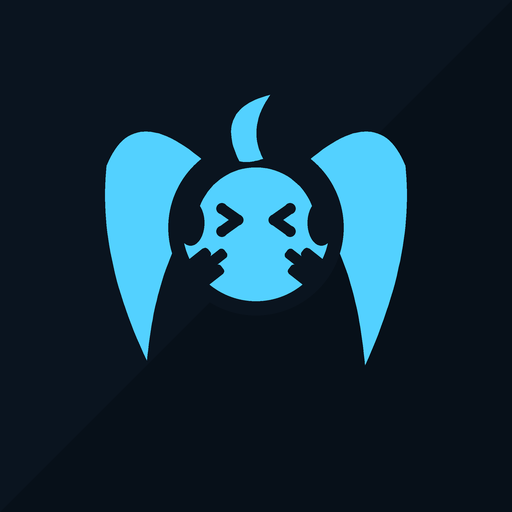
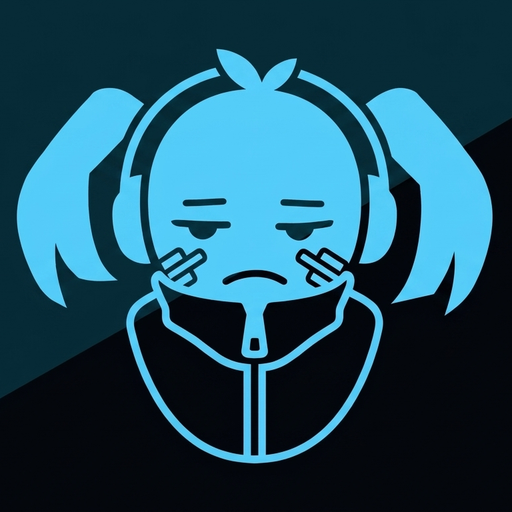
feat: 아이콘을 직접 제작한 캐릭터 아트로 교체 (versionCode 19)
- 원본(play/source-icon.png)에서 전 산출물 생성: 스토어 512 크롭, 피처 합성,
  런처 어댑티브 전경(캐릭터 추출 PNG, 안전영역 맞춤) + 배경 벡터(원본 투톤)
- 벡터 전경은 비트맵 전경으로 대체

diff --git a/play/make-graphics.py b/play/make-graphics.py
@@ -1,115 +1,85 @@
 #!/usr/bin/env python3
-"""플레이스토어 그래픽 재생성 — 에네 콘셉트 단색 캐릭터 마크.
+"""플레이스토어·런처 그래픽 생성 — 사용자 제작 캐릭터 아트(source-icon.png) 기반.
 
-런처 벡터(app/src/main/res/drawable/ic_launcher_foreground.xml)와 같은 지오메트리를
-여기서도 그린다(108 뷰포트 좌표 공유). 모티프를 바꾸면 두 곳을 같이 바꿀 것.
-산출물: icon-512.png (512×512), feature-1024x500.png (1024×500, 알파 없음)
+원본: play/source-icon.png (1367x768, 시안 캐릭터 + 투톤 대각 배경).
+산출물:
+  - icon-512.png            스토어 아이콘 (캐릭터 중심 정방형 크롭)
+  - feature-1024x500.png    피처 그래픽 (배경 재구성 + 캐릭터 우측 + 타이틀)
+  - ../app/src/main/res/drawable-xxxhdpi/ic_launcher_foreground.png
+                            어댑티브 런처 전경 (캐릭터 추출, 432px, 안전영역 맞춤)
+런처 배경(ic_launcher_background.xml)은 원본 배경색 2톤 대각 벡터로 별도 유지.
 """
-import math
+import os
 from PIL import Image, ImageDraw, ImageFont
 
-NAVY = '#0A141F'
-NAVY2 = '#071019'
-CYAN = '#53D1FF'
-
-HEAD = (54, 48, 15.5)
-HALO_R = 18.5
-AHOGE = [('M', (50.5, 34)), ('Q', (45, 23), (57, 20)), ('Q', (52, 27), (55.5, 33.5)), ('Q', (52.5, 34.5), (50.5, 34))]
-LTAIL = [('M', (43, 34)), ('Q', (28, 21), (22.5, 35)), ('Q', (20.5, 54), (31, 76)), ('Q', (32.5, 60), (38, 50)), ('Q', (42.5, 44), (43, 38))]
-RTAIL = [('M', (65, 34)), ('Q', (80, 21), (85.5, 35)), ('Q', (87.5, 54), (77, 77)), ('Q', (75.5, 60), (70, 50)), ('Q', (65.5, 44), (65, 38))]
-EYE_R = 1.15
-EYE_SEGS = [((46.8, 44.0), (50.2, 46.4)), ((46.8, 48.8), (50.2, 46.4)),
-            ((61.2, 44.0), (57.8, 46.4)), ((61.2, 48.8), (57.8, 46.4))]
-TH = math.radians(-55)
-BAND_RMID = 14.2; BAND_HALF = 1.5; BAND_A0 = 195; BAND_A1 = 345
-CUPS = [(40.2, 47.0), (67.8, 47.0)]; CUP_RX = 2.9; CUP_RY = 4.8
+CYAN = (82, 203, 248)      # 캐릭터 본색
+BG1 = '#072B37'            # 배경 좌상(틸)
+BG2 = '#03060B'            # 배경 우하(흑청)
 
 
-def _rrect_outline(halfL, halfW, q, n=8):
-    pts = []
-    def arc(ccx, ccy, a0, a1):
-        for i in range(n + 1):
-            a = math.radians(a0 + (a1 - a0) * i / n)
-            pts.append((ccx + q * math.cos(a), ccy + q * math.sin(a)))
-    arc(halfL - q, halfW - q, 0, 90); arc(-halfL + q, halfW - q, 90, 180)
-    arc(-halfL + q, -halfW + q, 180, 270); arc(halfL - q, -halfW + q, 270, 360)
-    return pts
+def load_source():
+    return Image.open('source-icon.png').convert('RGB')
 
 
-def _rot_rrect(cx, cy, th, halfL, halfW, q):
-    co, si = math.cos(th), math.sin(th)
-    return [(cx + x * co - y * si, cy + x * si + y * co) for x, y in _rrect_outline(halfL, halfW, q)]
+def extract_character(im):
+    """시안 캐릭터만 알파로 추출. 내부 디테일(배경색 선)은 뚫려서 배경이 비친다 — 의도된 것."""
+    w, h = im.size
+    src = im.load()
+    out = Image.new('RGBA', (w, h), (0, 0, 0, 0))
+    dst = out.load()
+    lo, hi = 45, 95
+    for y in range(h):
+        for x in range(w):
+            r, g, b = src[x, y]
+            d = ((r - CYAN[0]) ** 2 + (g - CYAN[1]) ** 2 + (b - CYAN[2]) ** 2) ** 0.5
+            if d < lo:
+                a = 255
+            elif d > hi:
+                continue
+            else:
+                a = int(255 * (hi - d) / (hi - lo))
+            dst[x, y] = (r, g, b, a)
+    bbox = out.getbbox()
+    return out.crop(bbox)
 
 
-def _edge_cluster(anchor_deg):
-    hx, hy = HEAD[0], HEAD[1]
-    a = math.radians(anchor_deg)
-    u = (math.cos(a), math.sin(a)); nv = (-u[1], u[0]); th = math.atan2(u[1], u[0])
-    bars = []
-    for off, Rb, halfL in ((-2.25, 14.2, 3.4), (0, 13.0, 4.8), (2.25, 14.2, 3.4)):
-        c = (hx + Rb * u[0] + off * nv[0], hy + Rb * u[1] + off * nv[1])
-        bars.append(_rot_rrect(c[0], c[1], th, halfL, 1.15, 0.8))
-    return bars
+def char_center_bbox(im):
+    ch = extract_character(im)
+    return ch
 
 
-DEV_BARS = _edge_cluster(38) + _edge_cluster(142)
+def make_icon(im):
+    """캐릭터 중심 정방형 크롭 → 512. 원본 배경(대각 투톤) 그대로 유지."""
+    w, h = im.size
+    ch = extract_character(im)
+    # 캐릭터 가로 중심 찾기: 추출 전 bbox를 다시 계산하기 위해 알파 투영
+    full = Image.new('RGBA', (w, h), (0, 0, 0, 0))
+    # extract_character가 crop해버리므로 중심은 원본에서 다시 측정
+    # (간단히: 시안 픽셀 x 평균)
+    src = im.load()
+    sx = n = 0
+    for y in range(0, h, 4):
+        for x in range(0, w, 4):
+            r, g, b = src[x, y]
+            if abs(r - CYAN[0]) < 60 and abs(g - CYAN[1]) < 60 and abs(b - CYAN[2]) < 60:
+                sx += x; n += 1
+    cx = sx // max(n, 1)
+    side = h
+    x0 = max(0, min(w - side, cx - side // 2))
+    im.crop((x0, 0, x0 + side, side)).resize((512, 512), Image.LANCZOS).save('icon-512.png')
 
 
-def qbez(p0, p1, p2, n=28):
-    return [((1 - t) ** 2 * p0[0] + 2 * (1 - t) * t * p1[0] + t * t * p2[0],
-             (1 - t) ** 2 * p0[1] + 2 * (1 - t) * t * p1[1] + t * t * p2[1])
-            for t in [i / n for i in range(n + 1)]]
-
-
-def poly(cmds):
-    pts, cur = [], None
-    for c in cmds:
-        if c[0] == 'M':
-            cur = c[1]; pts.append(cur)
-        elif c[0] == 'Q':
-            pts += qbez(cur, c[1], c[2])[1:]; cur = c[2]
-    return pts
-
-
-def draw_motif(dr, ox, oy, scale):
-    T = lambda p: (ox + p[0] * scale, oy + p[1] * scale)
-    for sh in (LTAIL, RTAIL):
-        dr.polygon([T(p) for p in poly(sh)], fill=CYAN)
-    cx, cy, r = HEAD
-    hc = T((cx, cy)); hr = HALO_R * scale
-    dr.ellipse([hc[0] - hr, hc[1] - hr, hc[0] + hr, hc[1] + hr], fill=NAVY)
-    rr = r * scale
-    dr.ellipse([hc[0] - rr, hc[1] - rr, hc[0] + rr, hc[1] + rr], fill=CYAN)
-    band = []
-    for dd in range(BAND_A0, BAND_A1 + 1, 4):
-        a = math.radians(dd)
-        band.append(T((cx + (BAND_RMID + BAND_HALF) * math.cos(a), cy + (BAND_RMID + BAND_HALF) * math.sin(a))))
-    for dd in range(BAND_A1, BAND_A0 - 1, -4):
-        a = math.radians(dd)
-        band.append(T((cx + (BAND_RMID - BAND_HALF) * math.cos(a), cy + (BAND_RMID - BAND_HALF) * math.sin(a))))
-    dr.polygon(band, fill=NAVY)
-    for ccx, ccy in CUPS:
-        p0 = T((ccx - CUP_RX, ccy - CUP_RY)); p1 = T((ccx + CUP_RX, ccy + CUP_RY))
-        dr.ellipse([p0[0], p0[1], p1[0], p1[1]], fill=NAVY)
-    dr.polygon([T(p) for p in poly(AHOGE)], fill=CYAN)
-    def seg(a, b, r2):
-        A, B = T(a), T(b); cr = r2 * scale
-        dr.line([A, B], fill=NAVY, width=int(2 * cr))
-        for p in (A, B):
-            dr.ellipse([p[0] - cr, p[1] - cr, p[0] + cr, p[1] + cr], fill=NAVY)
-    for a, b in EYE_SEGS:
-        seg(a, b, EYE_R)
-    for bar in DEV_BARS:
-        dr.polygon([T(p) for p in bar], fill=NAVY)
-
-
-def make_icon():
-    S, SS = 512, 4
-    img = Image.new('RGBA', (S * SS, S * SS), NAVY)
-    dr = ImageDraw.Draw(img)
-    dr.polygon([(S * SS, 0), (S * SS, S * SS), (0, S * SS)], fill=NAVY2)
-    draw_motif(dr, 0, 0, S * SS / 108)
-    img.resize((S, S), Image.LANCZOS).save('icon-512.png')
+def make_launcher_fg(im):
+    ch = extract_character(im)
+    S = 432; SAFE = 252   # 108dp 캔버스(4x), 안전영역 66dp(264px)보다 살짝 안쪽
+    scale = min(SAFE / ch.width, SAFE / ch.height)
+    nw, nh = int(ch.width * scale), int(ch.height * scale)
+    ch = ch.resize((nw, nh), Image.LANCZOS)
+    canvas = Image.new('RGBA', (S, S), (0, 0, 0, 0))
+    canvas.paste(ch, ((S - nw) // 2, (S - nh) // 2), ch)
+    out = os.path.join('..', 'app', 'src', 'main', 'res', 'drawable-xxxhdpi')
+    os.makedirs(out, exist_ok=True)
+    canvas.save(os.path.join(out, 'ic_launcher_foreground.png'))
 
 
 def korean_font(size):
@@ -122,28 +92,32 @@ def korean_font(size):
     return ImageFont.load_default()
 
 
-def make_feature():
+def make_feature(im):
     W, H, SS = 1024, 500, 2
-    img = Image.new('RGB', (W * SS, H * SS), NAVY)
+    img = Image.new('RGB', (W * SS, H * SS), BG1)
     dr = ImageDraw.Draw(img)
-    c1 = tuple(int(NAVY[i:i + 2], 16) for i in (1, 3, 5))
-    c2 = tuple(int(NAVY2[i:i + 2], 16) for i in (1, 3, 5))
+    c1 = tuple(int(BG1[i:i + 2], 16) for i in (1, 3, 5))
+    c2 = tuple(int(BG2[i:i + 2], 16) for i in (1, 3, 5))
     for x in range(W * SS):
         t = x / (W * SS)
         col = tuple(int(c1[k] + (c2[k] - c1[k]) * t) for k in range(3))
         dr.line([(x, 0), (x, H * SS)], fill=col)
-    scale = H * SS * 0.86 / 108
-    draw_motif(dr, W * SS - 108 * scale - 60 * SS, (H * SS - 108 * scale) / 2, scale)
+    ch = extract_character(im)
+    target_h = int(H * SS * 0.88)
+    scale = target_h / ch.height
+    ch = ch.resize((int(ch.width * scale), target_h), Image.LANCZOS)
+    img.paste(ch, (W * SS - ch.width - 50 * SS, (H * SS - target_h) // 2), ch)
     title = korean_font(86 * SS)
     sub = korean_font(34 * SS)
     dr.text((64 * SS, 160 * SS), '합주실 예약 AI', font=title, fill='#FFFFFF')
-    dr.text((66 * SS, 282 * SS), '말로 찾는 밴드 합주실 빈 시간', font=sub, fill=CYAN)
+    dr.text((66 * SS, 282 * SS), '말로 찾는 밴드 합주실 빈 시간', font=sub, fill='#52CBF8')
     img.resize((W, H), Image.LANCZOS).save('feature-1024x500.png')
 
 
 if __name__ == '__main__':
-    import os
     os.chdir(os.path.dirname(os.path.abspath(__file__)))
-    make_icon()
-    make_feature()
-    print('icon-512.png / feature-1024x500.png 재생성 완료')
+    im = load_source()
+    make_icon(im)
+    make_launcher_fg(im)
+    make_feature(im)
+    print('icon-512 / feature / launcher-fg 생성 완료')
